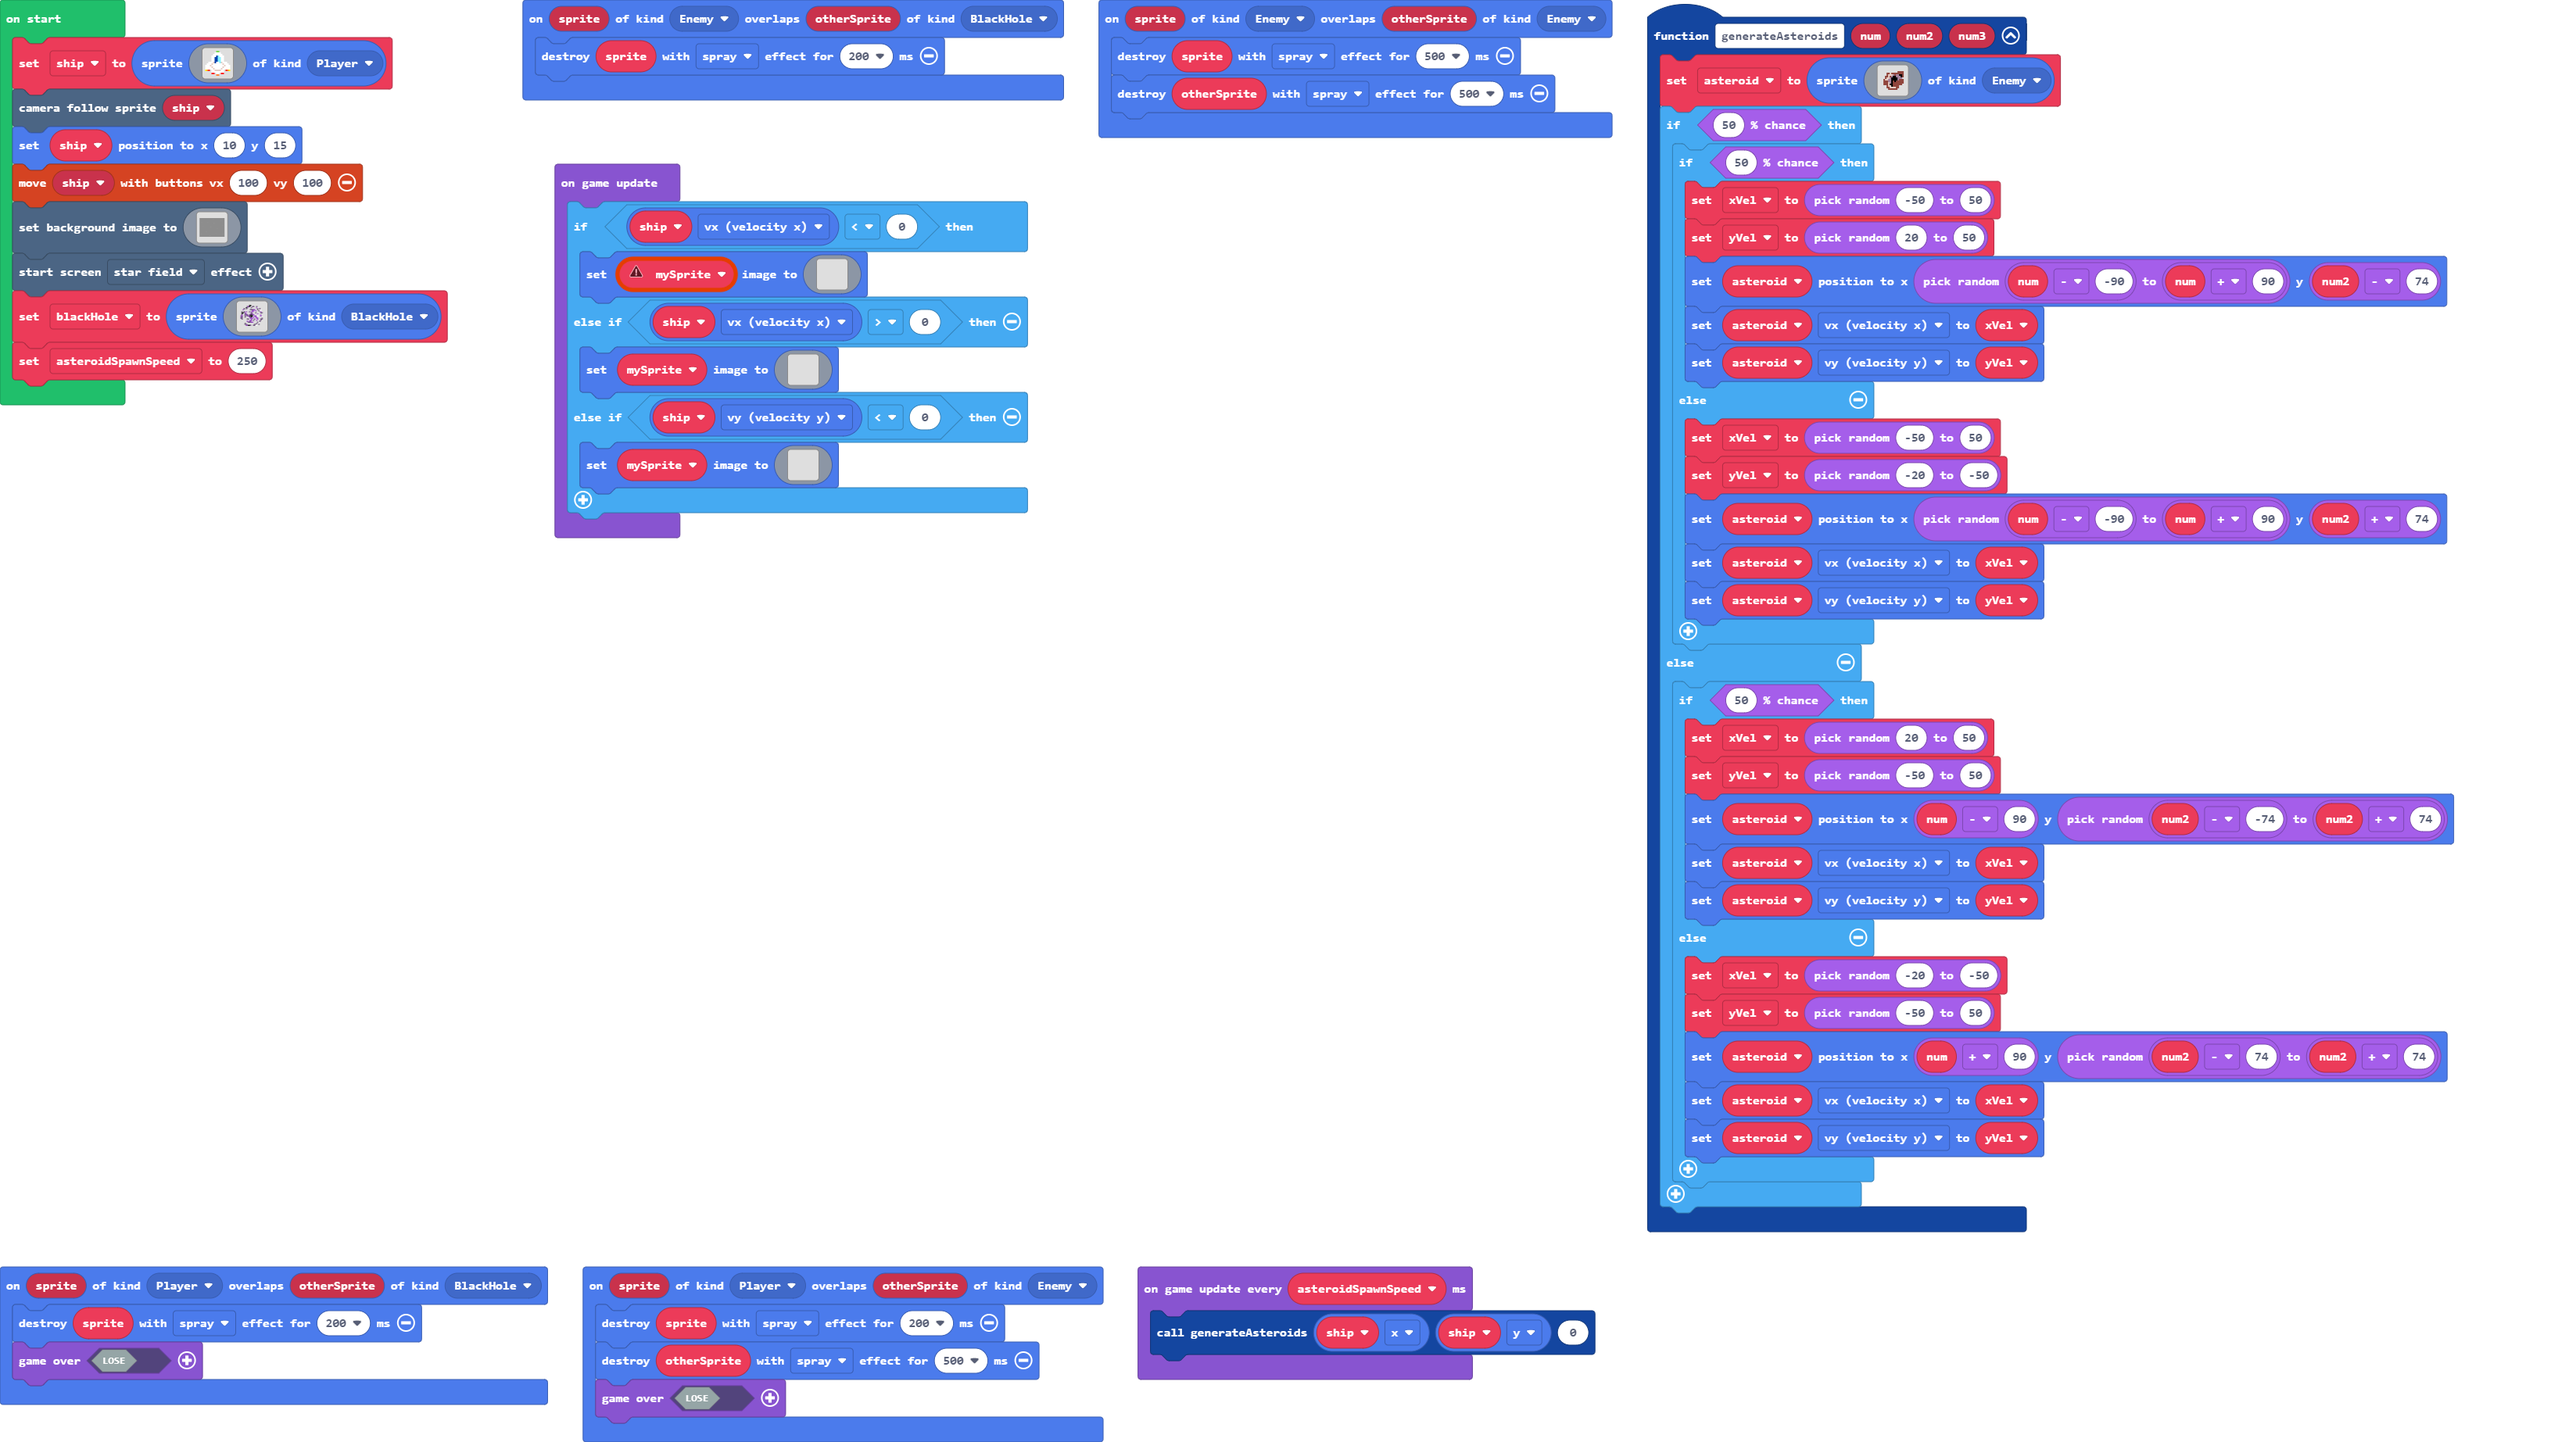
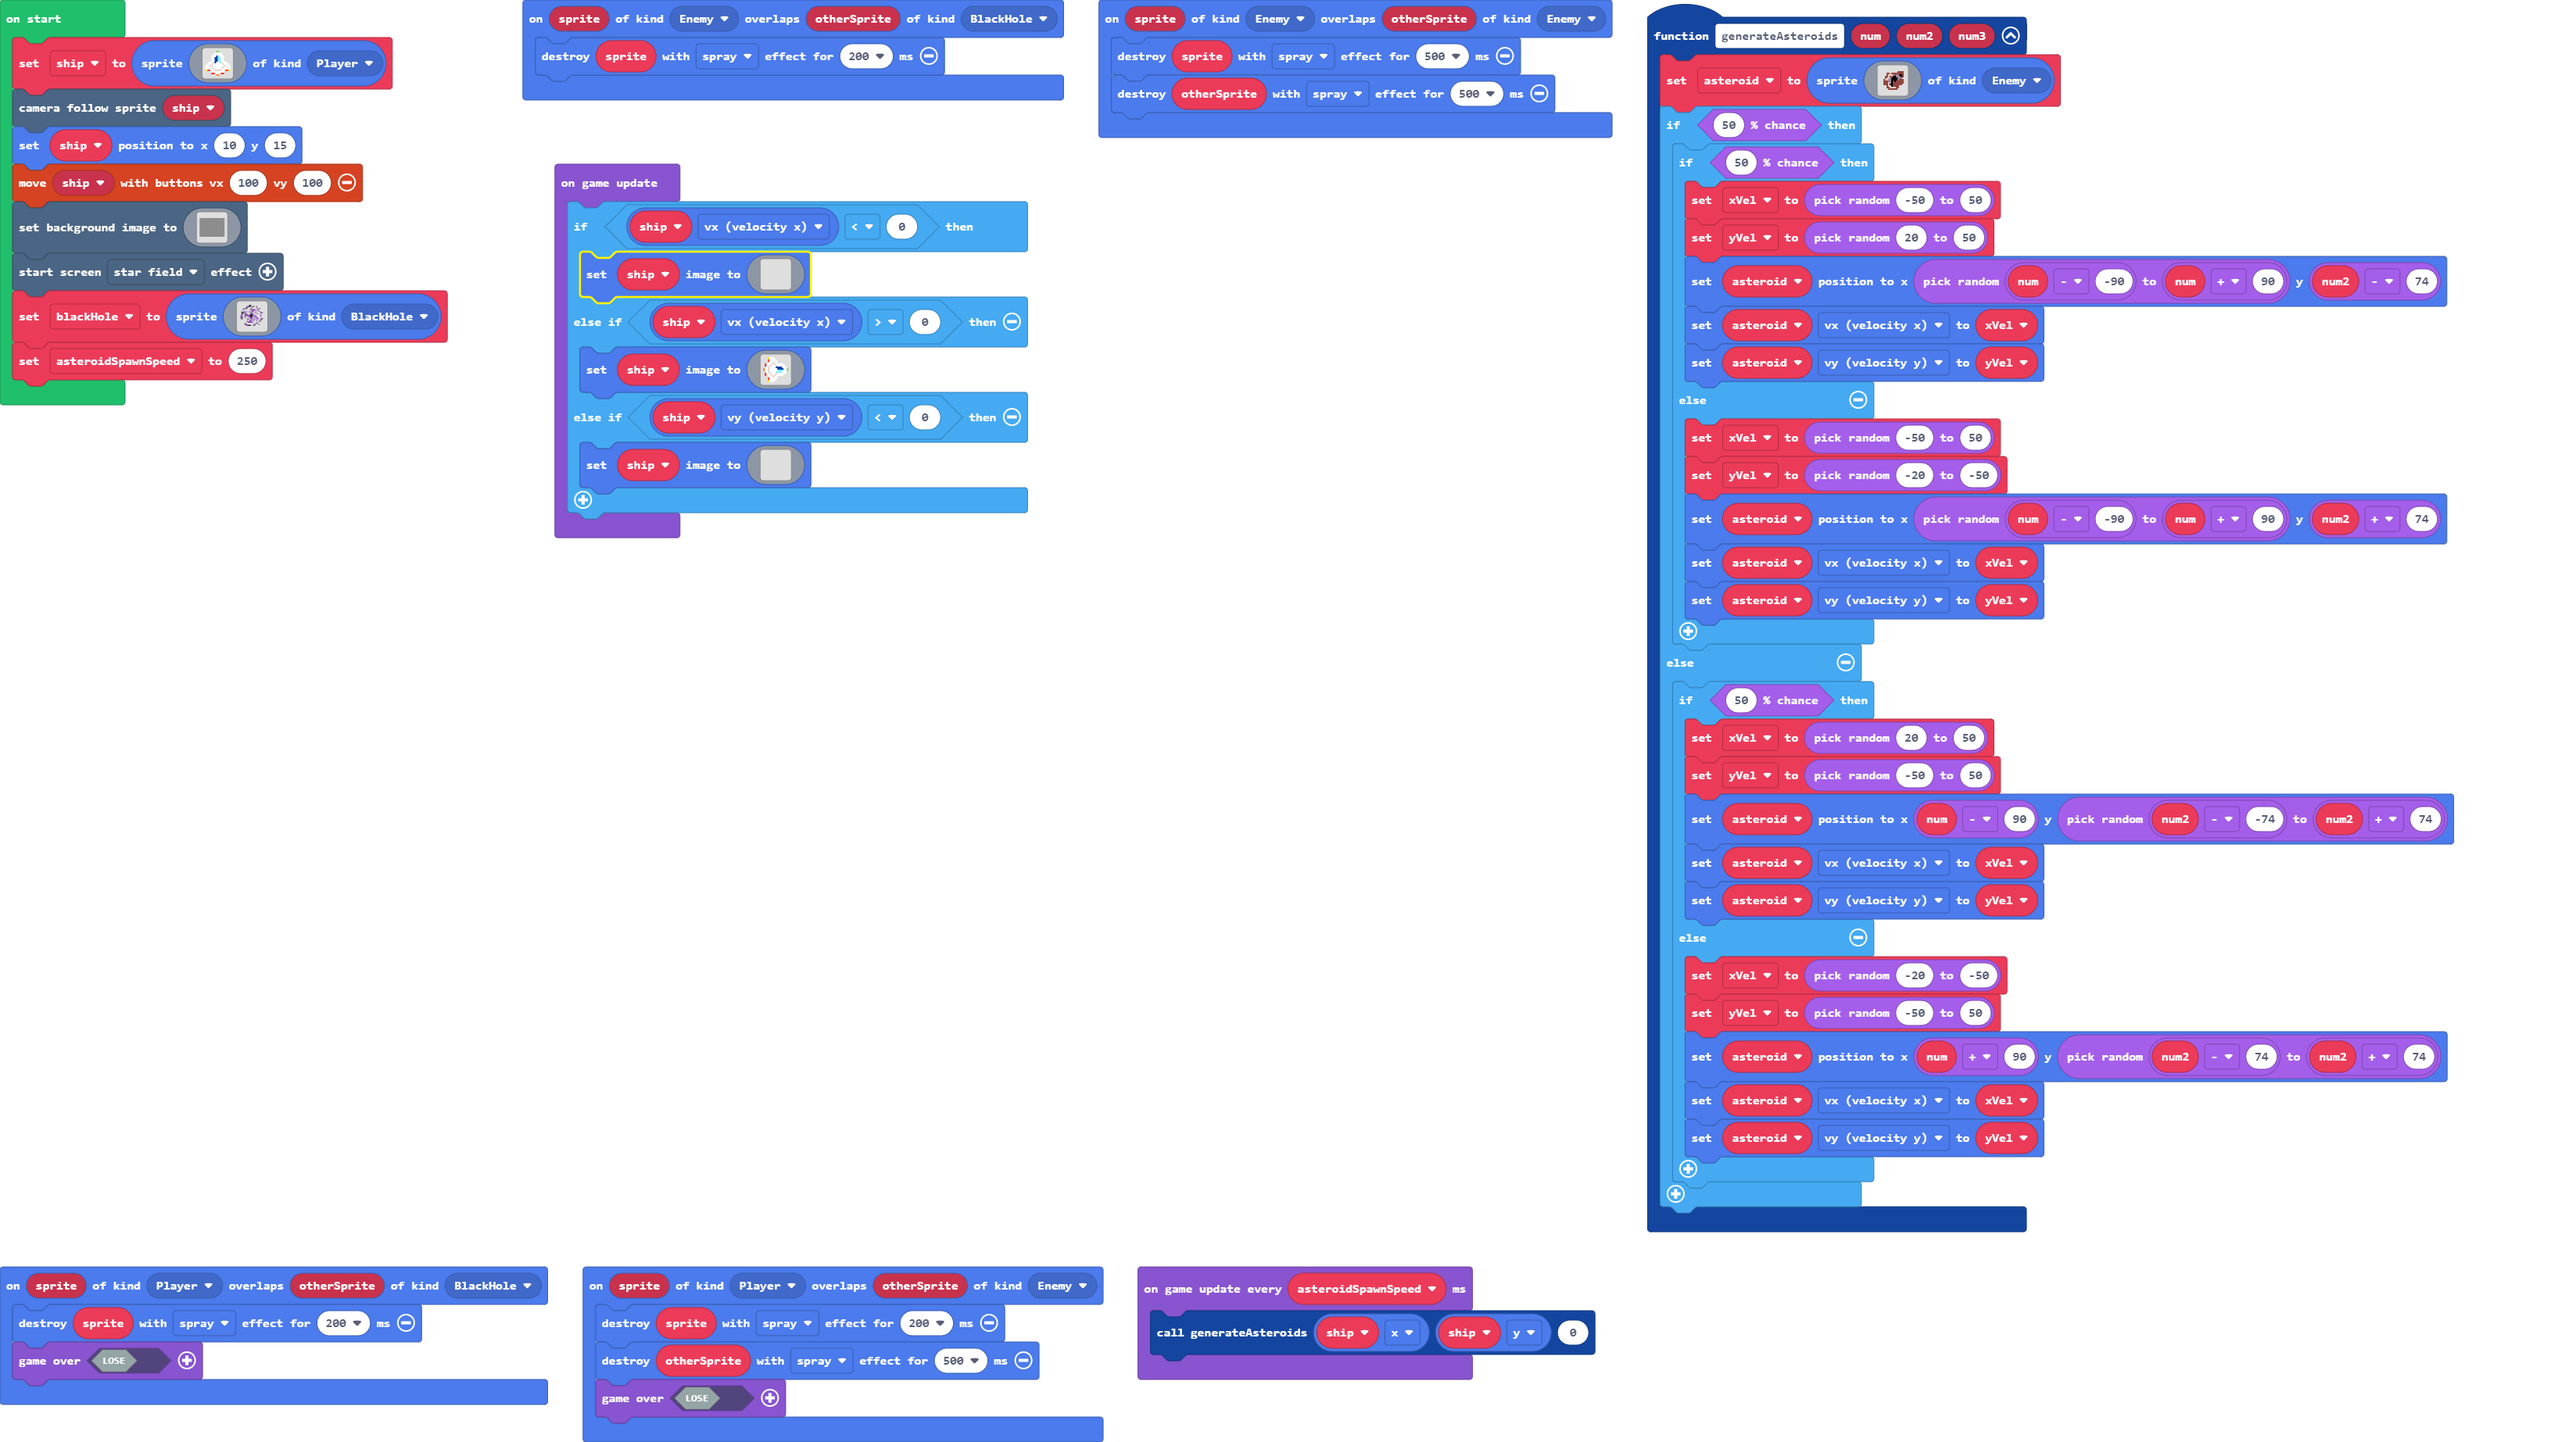
Update main.blocks, main.ts

Changed region(s): [[0.2167, 0.1545, 0.3405, 0.278], [0.2476, 0.3089, 0.3405, 0.3398]]

diff --git a/main.ts b/main.ts
@@ -246,9 +246,8 @@ let blackHole = sprites.create(img`
     `, SpriteKind.BlackHole)
 let asteroidSpawnSpeed = 250
 game.onUpdate(function () {
-    let mySprite: Sprite = null
     if (ship.vx < 0) {
-        mySprite.setImage(img`
+        ship.setImage(img`
             . . . . . . . . . . . . . . . . 
             . . . . . . . . . . . . . . . . 
             . . . . . . . . . . . . . . . . 
@@ -267,26 +266,26 @@ game.onUpdate(function () {
             . . . . . . . . . . . . . . . . 
             `)
     } else if (ship.vx > 0) {
-        mySprite.setImage(img`
-            . . . . . . . . . . . . . . . . 
-            . . . . . . . . . . . . . . . . 
-            . . . . . . . . . . . . . . . . 
-            . . . . . . . . . . . . . . . . 
-            . . . . . . . . . . . . . . . . 
-            . . . . . . . . . . . . . . . . 
-            . . . . . . . . . . . . . . . . 
-            . . . . . . . . . . . . . . . . 
-            . . . . . . . . . . . . . . . . 
-            . . . . . . . . . . . . . . . . 
-            . . . . . . . . . . . . . . . . 
-            . . . . . . . . . . . . . . . . 
-            . . . . . . . . . . . . . . . . 
-            . . . . . . . . . . . . . . . . 
-            . . . . . . . . . . . . . . . . 
-            . . . . . . . . . . . . . . . . 
+        ship.setImage(img`
+            . . . 5 1 1 1 . . . . . . . . . 
+            . . . 4 1 1 1 1 . . . . . . . . 
+            . . . 2 1 1 1 1 1 . . . . . . . 
+            . . . . 1 1 d 1 1 . . . . . . . 
+            . 2 1 1 1 d 1 d 1 1 1 1 1 . . . 
+            . 2 1 1 d 1 1 1 d 1 1 1 1 1 . . 
+            . . 1 d 1 1 1 1 8 8 8 8 1 1 1 . 
+            4 1 1 d 1 1 1 1 1 8 8 8 8 1 1 7 
+            4 1 1 d 1 1 1 1 1 9 9 9 9 1 1 7 
+            . . 1 d 1 1 1 1 9 9 9 9 1 1 1 . 
+            . 2 1 1 d 1 1 1 d 1 1 1 1 1 . . 
+            . 2 1 1 1 d 1 d 1 1 1 1 1 . . . 
+            . . . . 1 1 d 1 1 . . . . . . . 
+            . . . 2 1 1 1 1 1 . . . . . . . 
+            . . . 4 1 1 1 1 . . . . . . . . 
+            . . . 5 1 1 1 . . . . . . . . . 
             `)
     } else if (ship.vy < 0) {
-        mySprite.setImage(img`
+        ship.setImage(img`
             . . . . . . . . . . . . . . . . 
             . . . . . . . . . . . . . . . . 
             . . . . . . . . . . . . . . . . 
